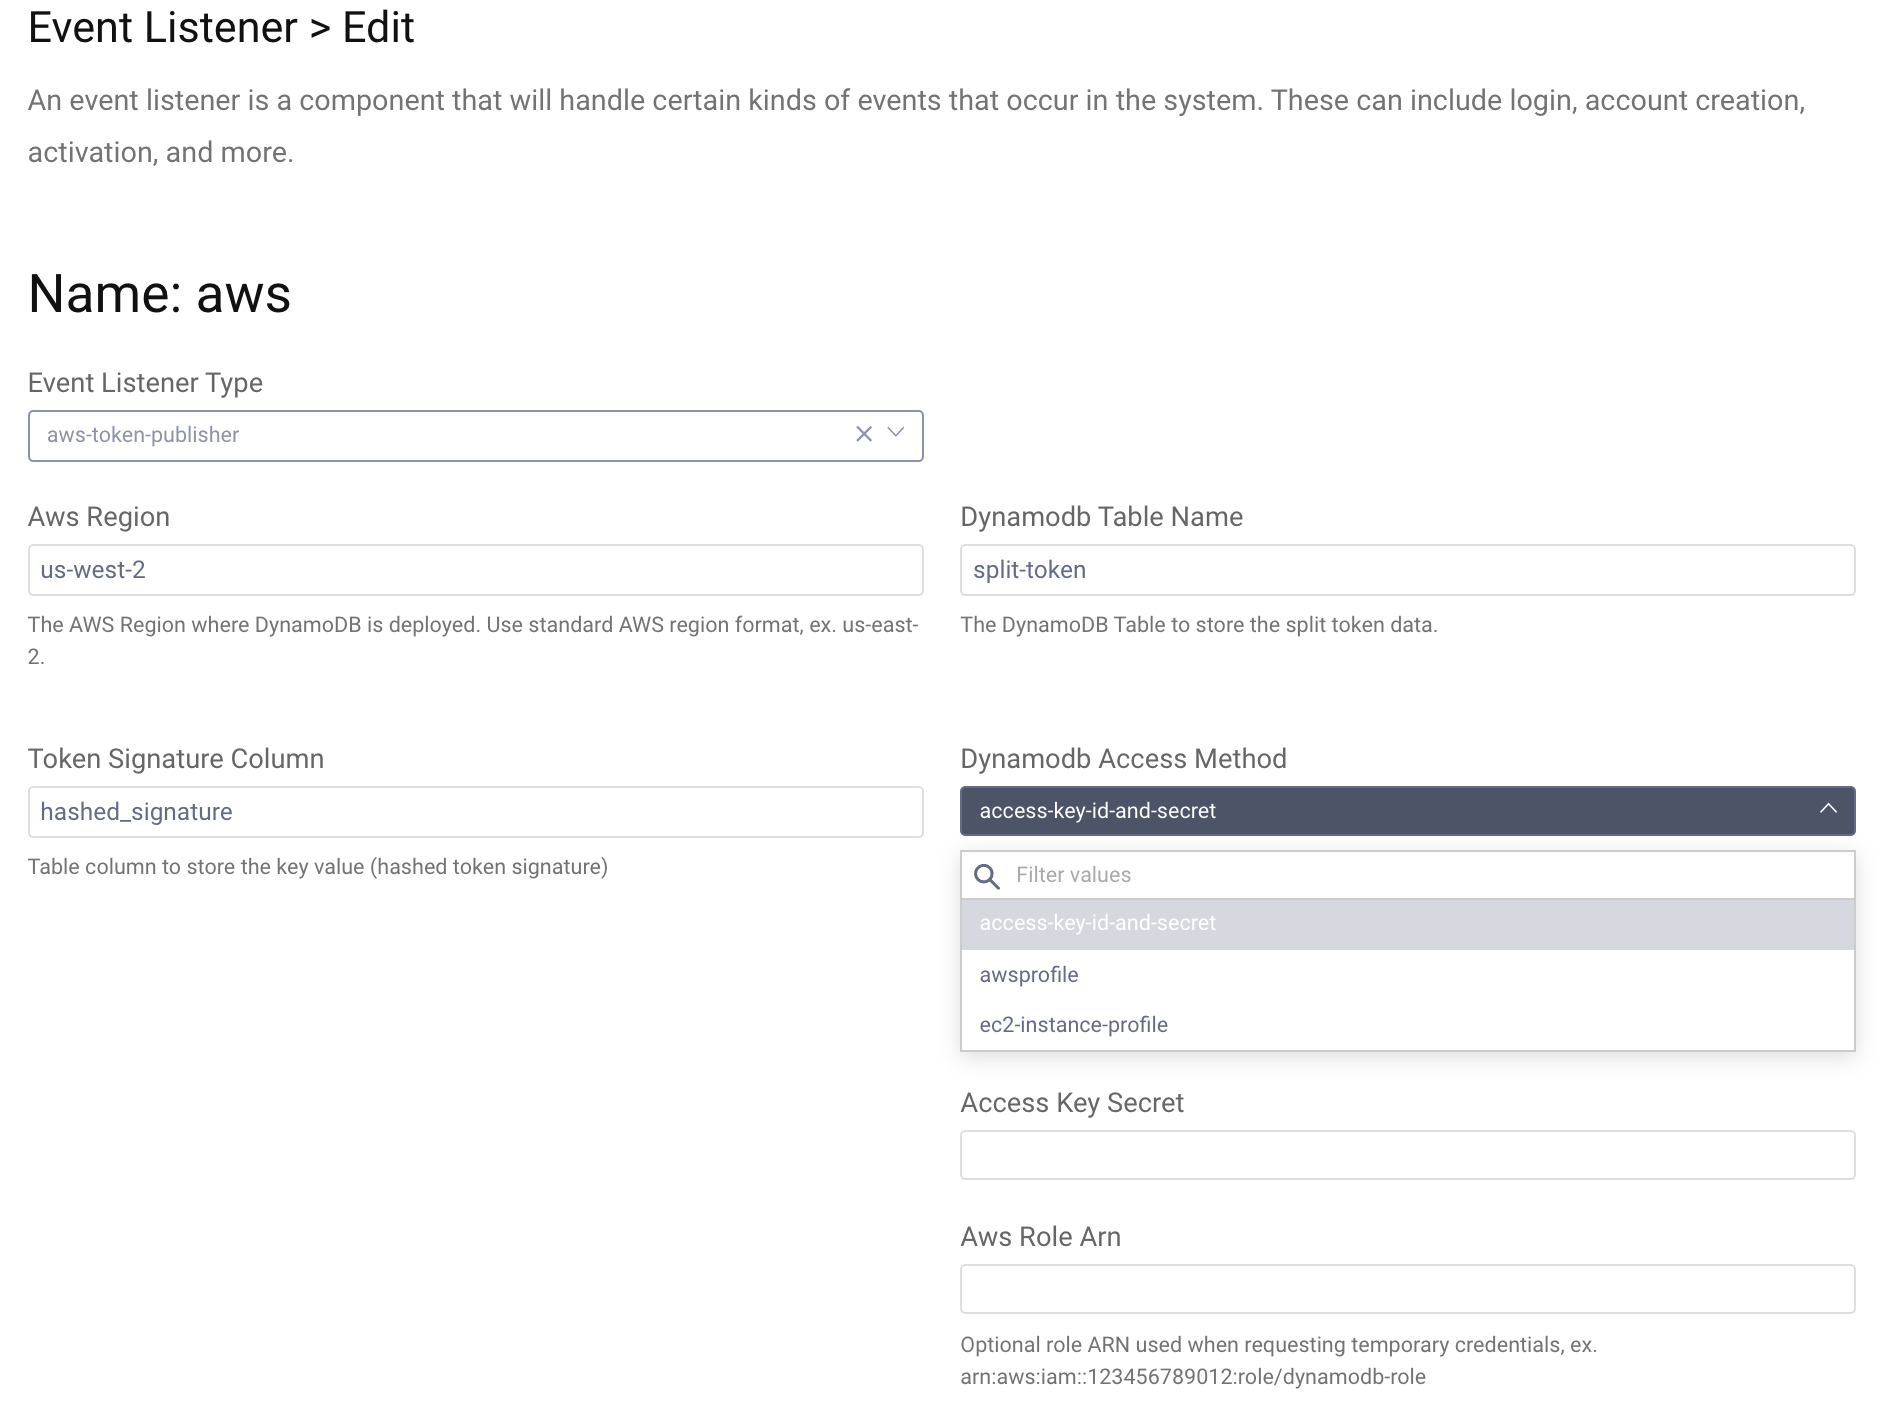
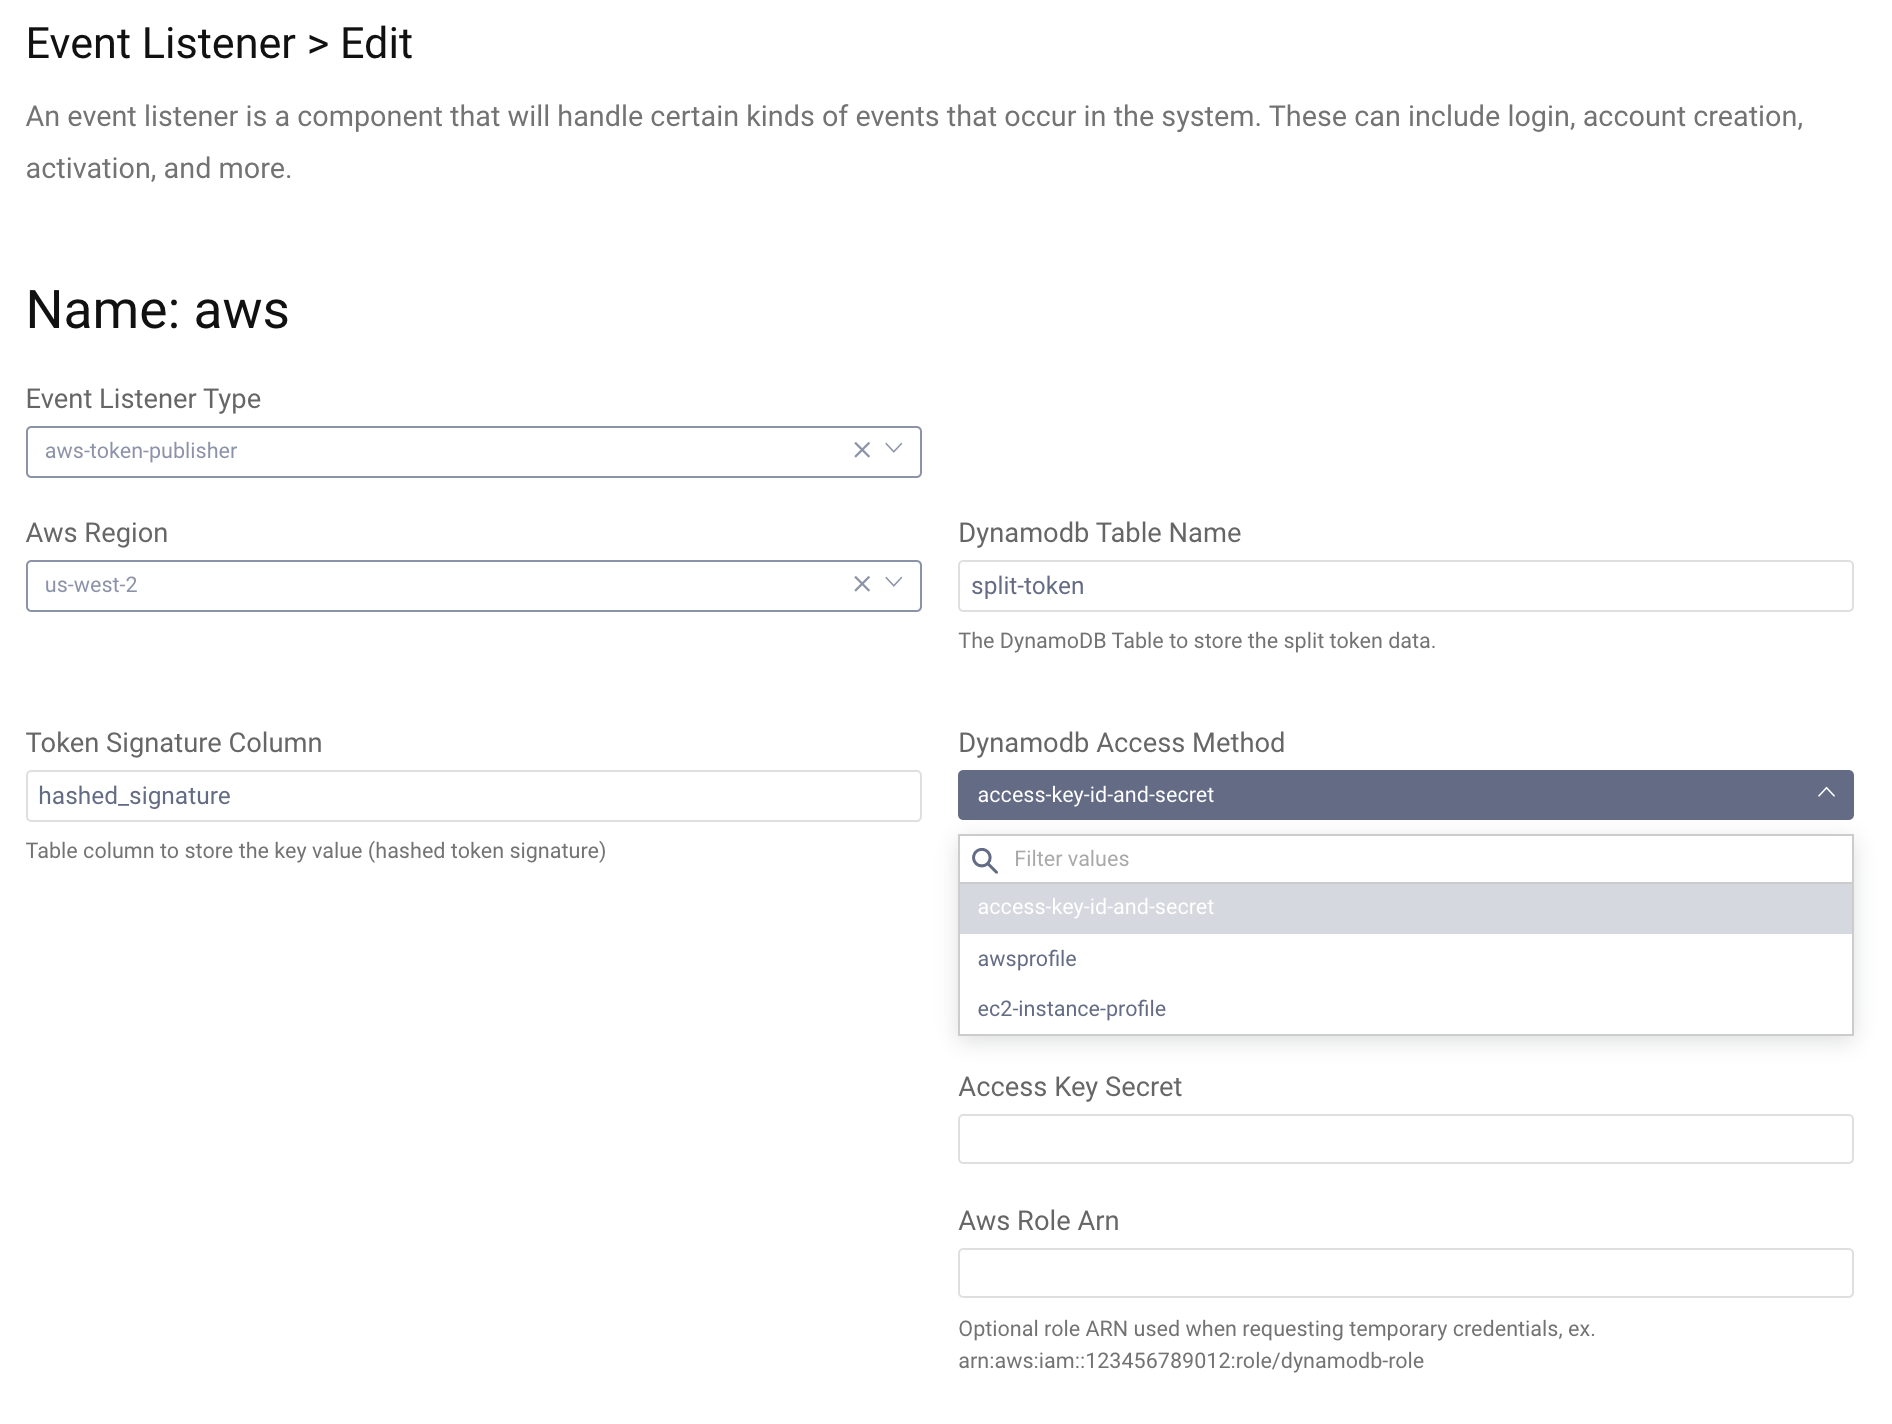
AWS Region as an Enum

diff --git a/src/main/java/io/curity/identityserver/plugin/events/listeners/config/AWSRegion.java b/src/main/java/io/curity/identityserver/plugin/events/listeners/config/AWSRegion.java
@@ -1,0 +1,63 @@
+/*
+ *  Copyright 2020 Curity AB
+ *
+ *  Licensed under the Apache License, Version 2.0 (the "License");
+ *  you may not use this file except in compliance with the License.
+ *  You may obtain a copy of the License at
+ *
+ *      http://www.apache.org/licenses/LICENSE-2.0
+ *
+ *  Unless required by applicable law or agreed to in writing, software
+ *  distributed under the License is distributed on an "AS IS" BASIS,
+ *  WITHOUT WARRANTIES OR CONDITIONS OF ANY KIND, either express or implied.
+ *  See the License for the specific language governing permissions and
+ *  limitations under the License.
+ */
+package io.curity.identityserver.plugin.events.listeners.config;
+
+public enum AWSRegion {
+
+    ap_south_1("ap-south-1"),
+    eu_south_1("eu-south-1"),
+    us_gov_east_1("us-gov-east-1"),
+    ca_central_1("ca-central-1"),
+    eu_central_1("eu-central-1"),
+    us_west_1("us-west-1"),
+    us_west_2("us-west-2"),
+    af_south_1("af-south-1"),
+    eu_north_1("eu-north-1"),
+    eu_west_3("eu-west-3"),
+    eu_west_2("eu-west-2"),
+    eu_west_1("eu-west-1"),
+    ap_northeast_2("ap-northeast-2"),
+    ap_northeast_1("ap-northeast-1"),
+    me_south_1("me-south-1"),
+    sa_east_1("sa-east-1"),
+    ap_east_1("ap-east-1"),
+    cn_north_1("cn-north-1"),
+    us_gov_west_1("us-gov-west-1"),
+    ap_southeast_1("ap-southeast-1"),
+    ap_southeast_2("ap-southeast-2"),
+    us_iso_east_1("us-iso-east-1"),
+    us_east_1("us-east-1"),
+    us_east_2("us-east-2"),
+    cn_northwest_1("cn-northwest-1"),
+    us_isob_east_1("us-isob-east-1"),
+    aws_global("aws-global"),
+    aws_cn_global("aws-cn-global"),
+    aws_us_gov_global("aws-us-gov-global"),
+    aws_iso_global("aws-iso-global"),
+    aws_iso_b_global("aws-iso-b-global");
+
+    AWSRegion(String awsRegion)
+    {
+        _awsRegion = awsRegion;
+    }
+
+    public String getAWSRegion()
+    {
+        return _awsRegion;
+    }
+
+    private final String _awsRegion;
+}

diff --git a/src/main/java/io/curity/identityserver/plugin/events/listeners/AccessTokenIssuedListener.java b/src/main/java/io/curity/identityserver/plugin/events/listeners/AccessTokenIssuedListener.java
@@ -48,7 +48,7 @@ public final class AccessTokenIssuedListener implements EventListener<IssuedAcce
     public AccessTokenIssuedListener(AWSEventListenerConfiguration configuration)
     {
         _exceptionFactory = configuration.getExceptionFactory();
-        _awsRegion = Region.of(configuration.getAwsRegion());
+        _awsRegion = Region.of(configuration.getAwsRegion().getAWSRegion());
         _tableName = configuration.getDynamodbTableName();
         _keyColumn = configuration.getTokenSignatureColumn();
         _accessMethod = configuration.getDynamodbAccessMethod();

diff --git a/src/main/java/io/curity/identityserver/plugin/events/listeners/config/AWSEventListenerConfiguration.java b/src/main/java/io/curity/identityserver/plugin/events/listeners/config/AWSEventListenerConfiguration.java
@@ -28,8 +28,8 @@ import java.util.Optional;
 @SuppressWarnings("InterfaceNeverImplemented")
 public interface AWSEventListenerConfiguration extends Configuration
 {
-    @Description("The AWS Region where DynamoDB is deployed. Use standard AWS region format, ex. us-east-2.")
-    String getAwsRegion();
+    @Description("The AWS Region where DynamoDB is deployed.")
+    AWSRegion getAwsRegion();
 
     @Description("The DynamoDB Table to store the split token data.")
     @DefaultString("split-token")
